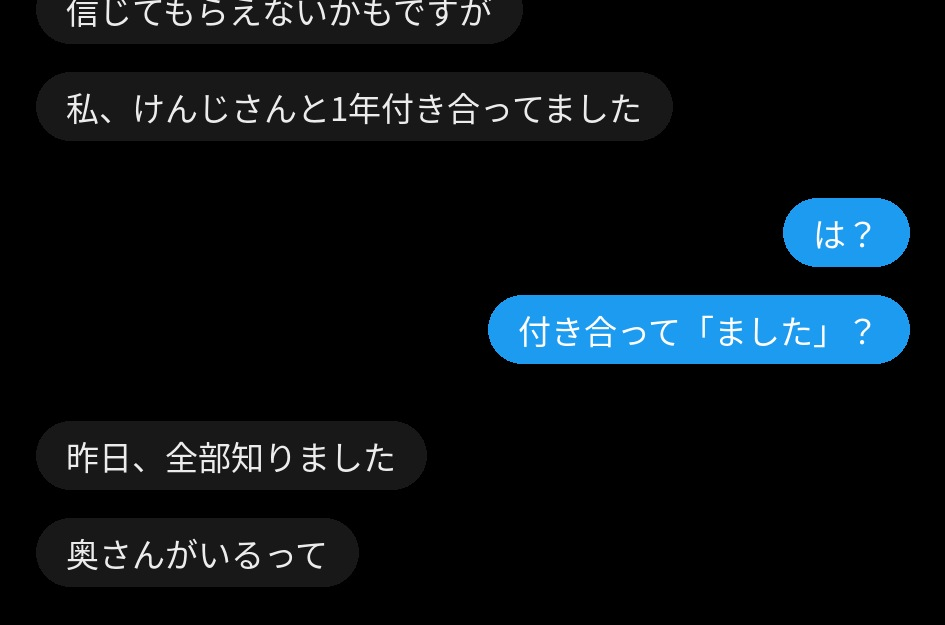
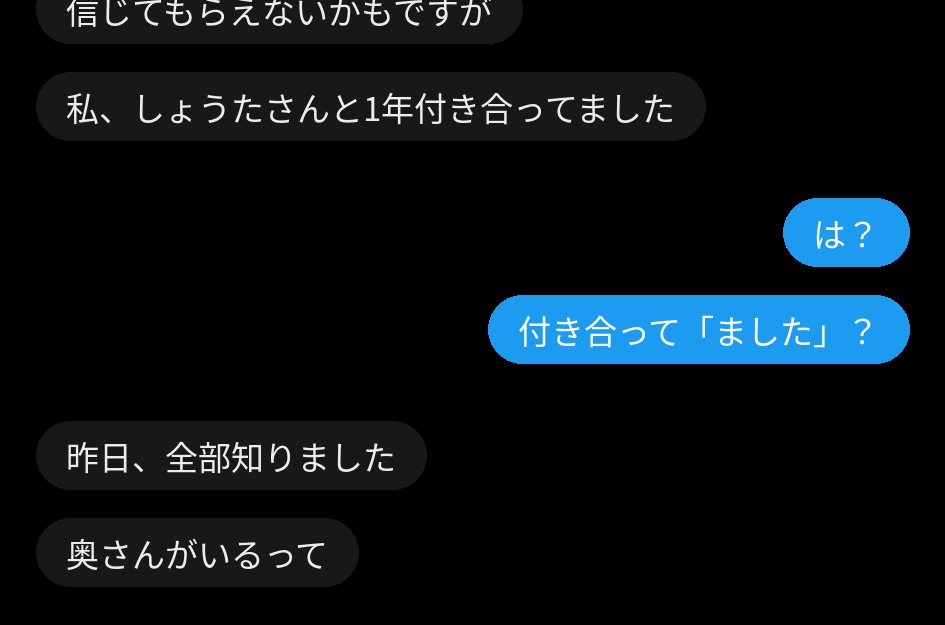
投稿案No.32：夫の名前を「しょうた」に
Claude-Session: https://claude.ai/code/session_01BYBmBvznVWhAgsHTXx74AL

Changed region(s): [[0.1228, 0.152, 0.7058, 0.2128]]

diff --git a/hikaku15/plans/032/common.md b/hikaku15/plans/032/common.md
@@ -2,7 +2,7 @@
 
 ## 作品
 - タイトル：夫の浮気相手から、DMが来た
-- コンセプト：ある夜、妻（自分）のもとに、知らない女性「まりな」からDMが届く。「けんじさんの奥さんですか？」。夫・けんじは、まりなに「独身で年収2000万の経営者」とうそをつき、妻が結婚前にもらったのと同じブランドの指輪をまりなに買っていた。2人で話すうちに、夫には3人目の女「ゆかり」がいることまでわかり、妻とまりなは手を組み、「敵の敵は、味方です」で終わる。
+- コンセプト：ある夜、妻（自分）のもとに、知らない女性「まりな」からDMが届く。「しょうたさんの奥さんですか？」。夫・しょうたは、まりなに「独身で年収2000万の経営者」とうそをつき、妻が結婚前にもらったのと同じブランドの指輪をまりなに買っていた。2人で話すうちに、夫には3人目の女「ゆかり」がいることまでわかり、妻とまりなは手を組み、「敵の敵は、味方です」で終わる。
 - 参考：参考投稿No.87（コンカフェ嬢に届いたキモいDMのスクショ）の、「DMの画面のスクショを何枚も並べる」形だけを借りる。人物、会話はすべてオリジナル。
 - 架空の創作です。登場人物はすべて架空の成人。実在の人物・会社・サービスとは関係ない。
 - 下品さは文字（メッセージ）だけで出す。写真のメッセージにも、性的なもの・裸・下着は描かない。
@@ -21,8 +21,8 @@
 - XやほかのSNSのロゴ、実在の人物の写真、実在の会社名は描かない。アイコンは顔の見えない写真（空、料理、ぬいぐるみなど）
 
 ## 登場人物
-- 自分（右・青い吹き出し）：30代前半の妻。夫・けんじ（年収450万の営業）と結婚5年。アイコンは料理の写真
-- 相手（左・グレーの吹き出し）：まりな（20代後半）。けんじの浮気相手だが、独身だとだまされていた。アイコンはぬいぐるみの写真
+- 自分（右・青い吹き出し）：30代前半の妻。夫・しょうた（年収450万の営業）と結婚5年。アイコンは料理の写真
+- 相手（左・グレーの吹き出し）：まりな（20代後半）。しょうたの浮気相手だが、独身だとだまされていた。アイコンはぬいぐるみの写真
 
 ## 2枚目から：続きの画面（トリミングしたスクショ）※1枚目は除く
 - ステータスバー、上のヘッダー（アイコンと名前）、下の入力欄とタブバーは描かない。メッセージのやりとりの部分だけを切り抜いたスクショにする

diff --git a/hikaku15/plans/032/02.md b/hikaku15/plans/032/02.md
@@ -5,7 +5,7 @@
 ① ステータスバー、ヘッダー（アイコンと名前）、下の入力欄とタブバーは描かない
 ② 画像のいちばん上の端：前のページの最後の吹き出し（左・グレー）「信じてもらえないかもですが」が、画像の上の端で切れていて、下半分くらいだけが見える（文字も上側が切れて読みにくくてよい）
 ③ その下に、このページのメッセージ（上から順に。左＝相手のグレー、右＝自分の青。本物のDMと同じせまい間隔で詰める）：
-　・左・グレー：「私、けんじさんと1年付き合ってました」（18文字・2行）
+　・左・グレー：「私、しょうたさんと1年付き合ってました」（19文字・2行）
 　・右・青：「は？」（2文字・1行）
 　・右・青：「付き合って「ました」？」（11文字・1行）
 　・左・グレー：「昨日、全部知りました」（10文字・1行）

diff --git a/hikaku15/plans/032/01.md b/hikaku15/plans/032/01.md
@@ -6,7 +6,7 @@
 ③ 画面の中のメッセージ（上から順に。左＝相手のグレー、右＝自分の青）：
 　・（中央の小さなグレーの文字）今日 22:14
 　・左・グレー：「突然すみません」（7文字・1行）
-　・左・グレー：「けんじさんの奥さんですか？」（13文字・1行）
+　・左・グレー：「しょうたさんの奥さんですか？」（14文字・1行）
 　・右・青：「…どちら様ですか」（8文字・1行）
 　・左・グレー：「お話ししたいことがあって」（12文字・1行）
 　・左・グレー：「信じてもらえないかもですが」（13文字・1行）
